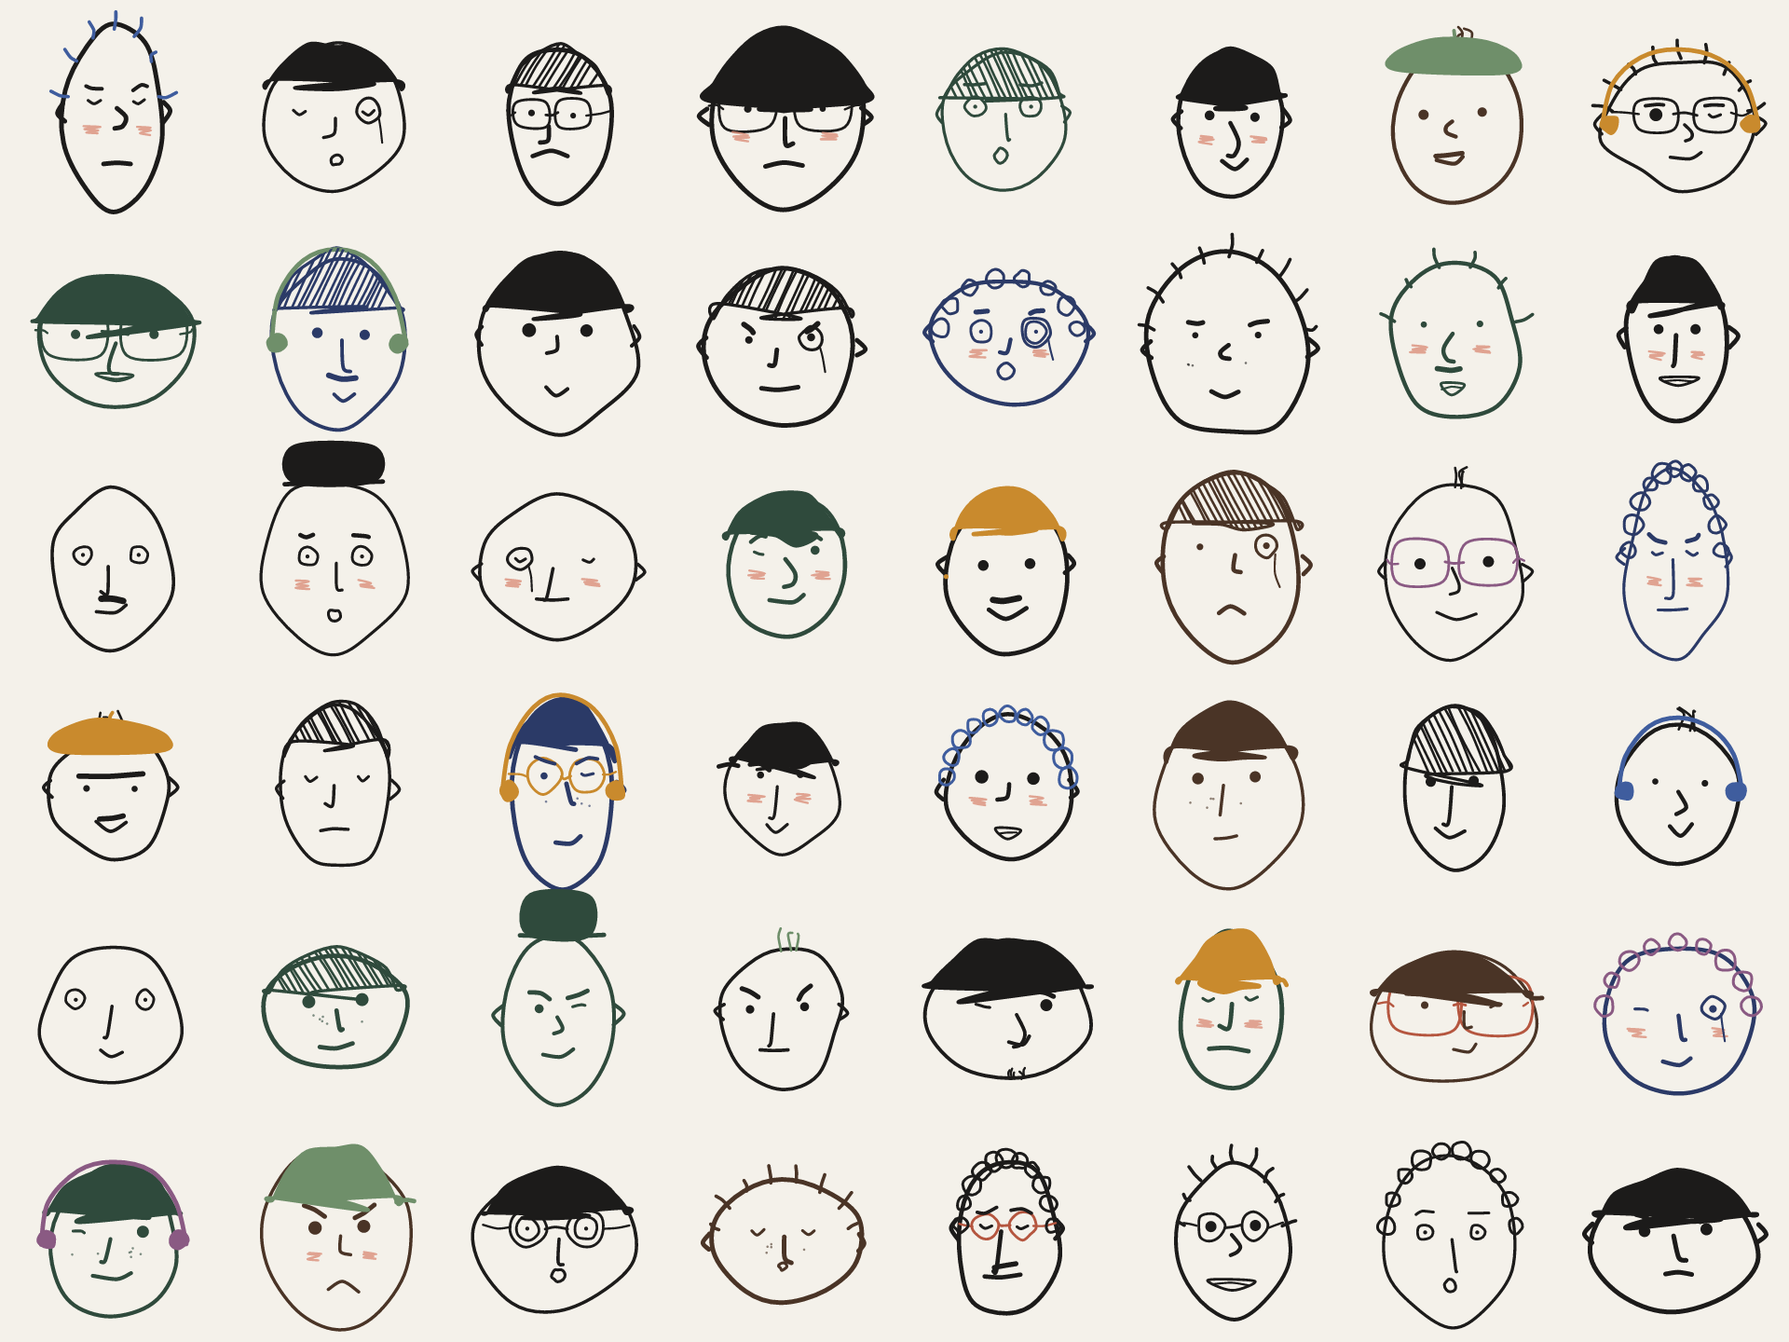
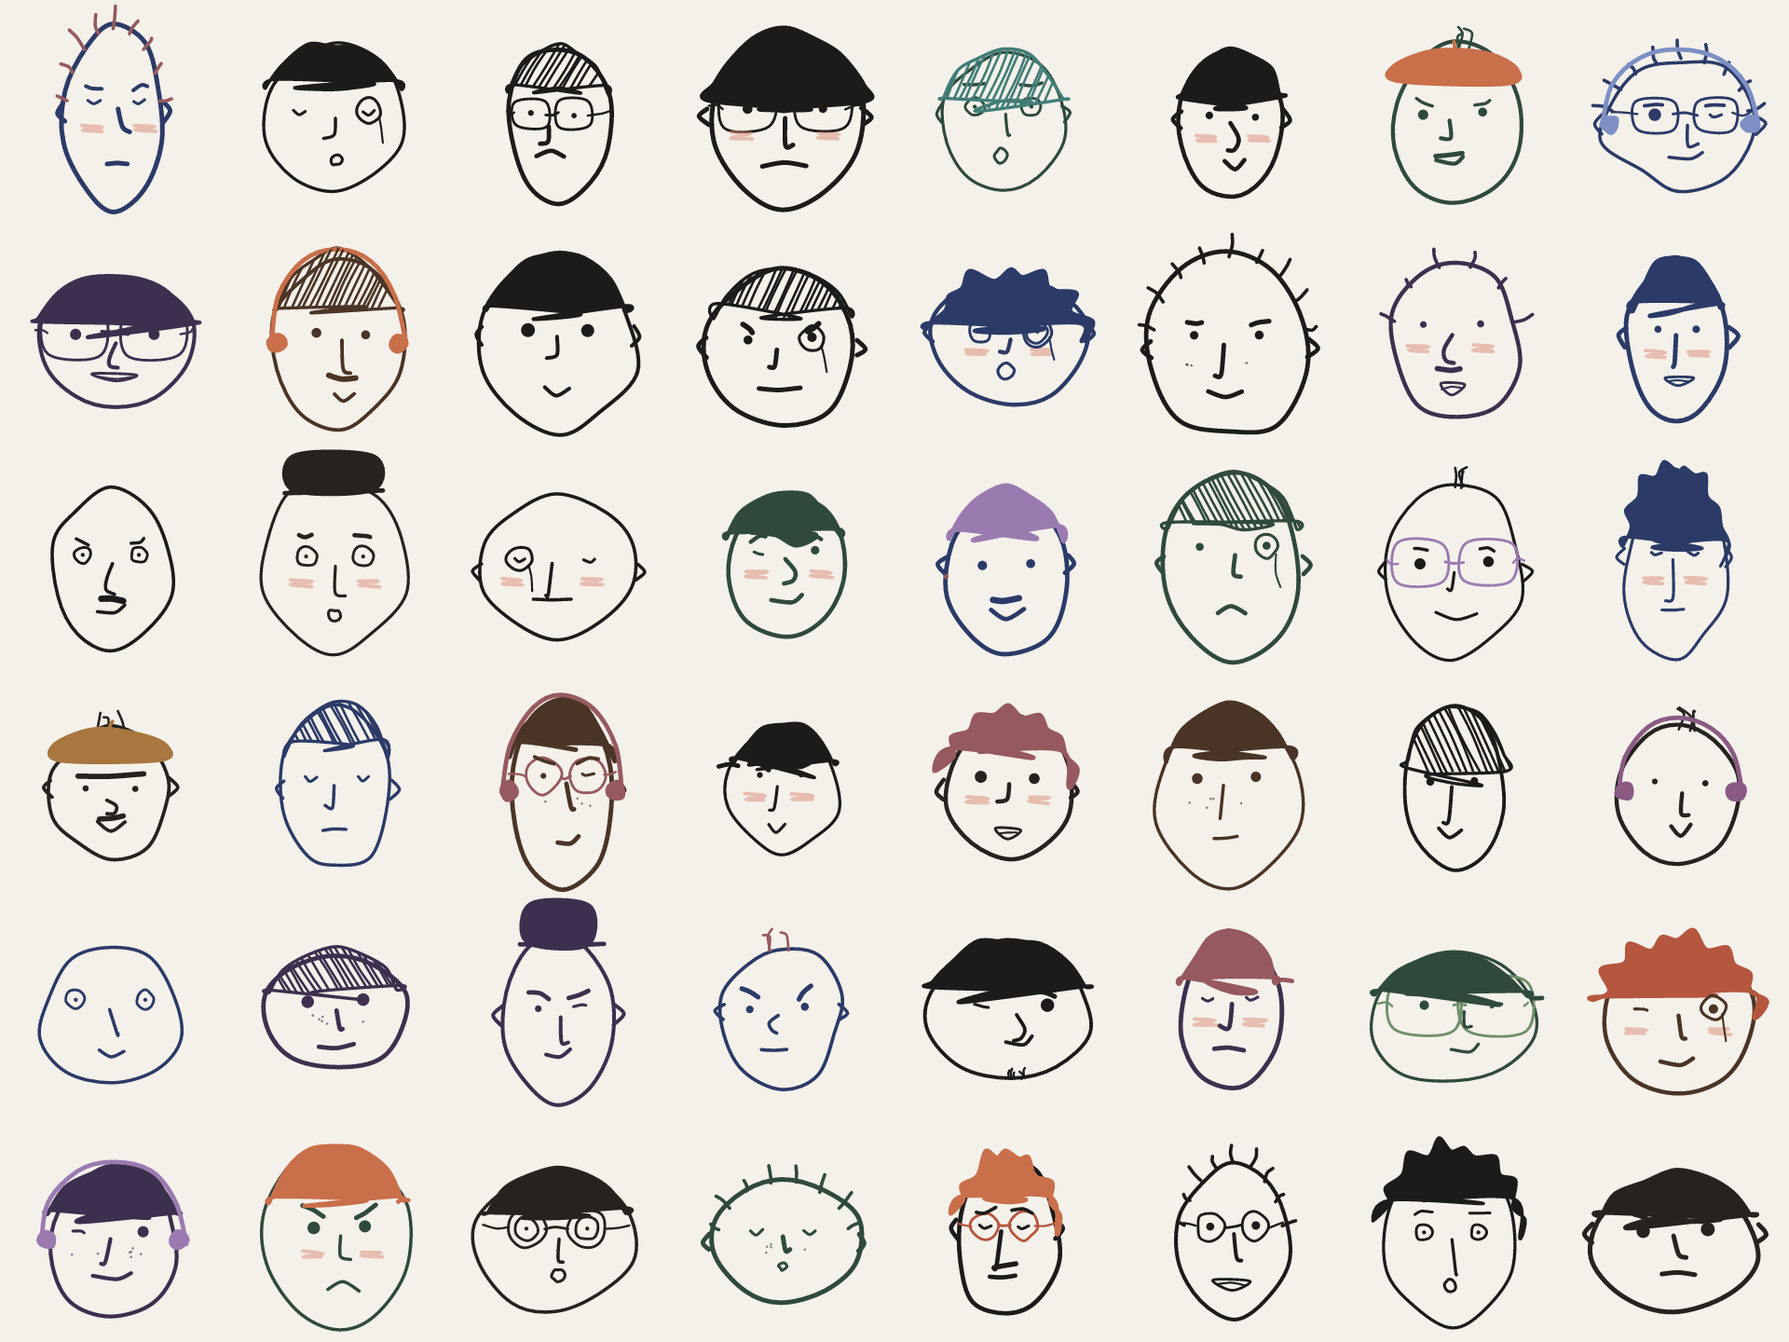
face quality: curls as filled clouds, proportional features, 12-accent palette, anchored hats, softer blush, lid-following lashes

diff --git a/src/index.ts b/src/index.ts
@@ -151,8 +151,8 @@ function looksFem(seed: string, r: Rng): boolean {
   return score > 0;
 }
 
-const INKS = ["#1c1b1a", "#1c1b1a", "#1c1b1a", "#1c1b1a", "#2b3a67", "#4a3426", "#2f4a3c"];
-const ACCENTS = ["#b5563f", "#3f5d9e", "#6f8f6a", "#c98a2d", "#8a5a83"];
+const INKS = ["#1c1b1a", "#1c1b1a", "#1c1b1a", "#26221f", "#2b3a67", "#4a3426", "#2f4a3c", "#3d2f4e"];
+const ACCENTS = ["#b5563f", "#3f5d9e", "#6f8f6a", "#c98a2d", "#8a5a83", "#427d78", "#c96f4a", "#7d8fc4", "#a8763e", "#96595f", "#5e7d52", "#9a7bb0"];
 const BLUSH = "#d98973";
 
 // ---------- face ----------
@@ -229,6 +229,7 @@ function build(seed: string, options: FaceOptions = {}): FaceParts {
     ? pick(rha, ["long", "long", "long", "bob", "bob", "bun", "pony", "curls"])
     : pick(rha, ["solid", "solid", "hatch", "spiky", "curls", "cap", "bald", "wisps"]);
   const coversEars = hairKind === "long" || hairKind === "bob";
+  const sparseHair = hairKind === "bald" || hairKind === "wisps" || hairKind === "spiky";
 
   // --- ears ---
   const re2 = stream(seed, "ears");
@@ -246,7 +247,7 @@ function build(seed: string, options: FaceOptions = {}): FaceParts {
   // --- eyes ---
   const re = stream(seed, "eyes");
   const ey = cy - hh * rand(re, 0.08, 0.22);
-  const gap = hw * rand(re, 0.36, 0.5);
+  const gap = hw * rand(re, 0.38, 0.5);
   const lx = xf - gap * (1 + turn * 0.25);
   const rx2 = xf + gap * (1 - turn * 0.25);
   const hasGlasses = chance(stream(seed, "glasses"), 0.16);
@@ -256,7 +257,7 @@ function build(seed: string, options: FaceOptions = {}): FaceParts {
     m === "surprised" ? "ring" :
     m === "wink" ? "wink" :
     hasGlasses ? "dot" : seedEye;
-  const rEye = rand(re, 1.4, 3.0) * (m === "surprised" ? 1.25 : 1);
+  const rEye = rand(re, 1.5, 2.6) * (hw / 28) * (m === "surprised" ? 1.25 : 1);
   const drawEye = (x: number, winkThis: boolean) => {
     if (kind === "wink" && winkThis) {
       out.push({ d: line(re, [x - 2.5, ey], [x + 2.5, ey + rand(re, -1, 1)]), width: 1.3 });
@@ -273,11 +274,12 @@ function build(seed: string, options: FaceOptions = {}): FaceParts {
   drawEye(lx, winkSide);
   drawEye(rx2, !winkSide);
   if (fem) {
+    const closed = kind === "sleepy";
     for (const [x, sgn] of [[lx, -1], [rx2, 1]] as [number, number][]) {
-      const bx = x + sgn * (rEye + 1.6);
-      for (let i = 0; i < 2; i++) {
-        out.push({ d: line(re, [bx + sgn * i * 1.4, ey - 0.5 + i * 1.1], [bx + sgn * (2.2 + i * 1.6), ey - 2.2 + i * 0.9], 0.3), width: 1 });
-      }
+      const bx = x + sgn * (rEye + (closed ? 0.9 : 1.6));
+      const by2 = closed ? ey + 1.2 : ey - 0.5;
+      out.push({ d: line(re, [bx, by2], [bx + sgn * 2.4, by2 + (closed ? 1.6 : -1.8)], 0.25), width: 1 });
+      out.push({ d: line(re, [bx + sgn * 0.4, by2 + (closed ? -0.6 : 1.4)], [bx + sgn * 2.8, by2 + (closed ? 0.4 : 0)], 0.25), width: 1 });
     }
   }
 
@@ -302,7 +304,7 @@ function build(seed: string, options: FaceOptions = {}): FaceParts {
 
   // --- brows ---
   const rb = stream(seed, "brows");
-  const browBase = chance(rb, 0.45);
+  const browBase = chance(rb, sparseHair ? 0.62 : 0.45);
   const showBrows = m === "grumpy" || m === "sad" || m === "surprised" ? true : browBase;
   if (showBrows) {
     const lift = m === "surprised" ? 3.5 : 0;
@@ -323,9 +325,9 @@ function build(seed: string, options: FaceOptions = {}): FaceParts {
 
   // --- nose ---
   const rn = stream(seed, "nose");
-  if (chance(rn, 0.92)) {
+  if (sparseHair || chance(rn, 0.92)) {
     const ny = ey + rand(rn, 3, 5);
-    const nl = rand(rn, 5, 14);
+    const nl = rand(rn, 6, 12) * (hh / 33);
     const dir = turn !== 0 ? Math.sign(turn) : (chance(rn, 0.5) ? 1 : -1);
     const nk = pick(rn, ["l", "l", "curve", "long"]);
     if (nk === "l") {
@@ -345,8 +347,8 @@ function build(seed: string, options: FaceOptions = {}): FaceParts {
       if (turn * s > 0.5) continue;
       const bx = xf + s * gap * 1.15;
       const pts: Pt[] = [];
-      for (let i = 0; i < 3; i++) pts.push([bx - 3 + rand(rc, -1, 1), chY + i * 1.4], [bx + 3 + rand(rc, -1, 1), chY + i * 1.4 + 0.7]);
-      out.push({ d: inkPath(rc, pts, { wobble: 0.5 }), width: 1, stroke: colorOn ? BLUSH : ink, opacity: colorOn ? 0.75 : 0.35 });
+      for (let i = 0; i < 2; i++) pts.push([bx - 4.5 + rand(rc, -0.5, 0.5), chY + i * 2], [bx + 4.5 + rand(rc, -0.5, 0.5), chY + i * 2 + 0.5]);
+      out.push({ d: inkPath(rc, pts, { wobble: 0.4 }), width: 1.6, stroke: colorOn ? BLUSH : ink, opacity: colorOn ? 0.5 : 0.25 });
     }
   } else if (chance(rc, 0.16)) { // freckles
     for (let i = 0; i < Math.floor(rand(rc, 4, 8)); i++) {
@@ -358,7 +360,7 @@ function build(seed: string, options: FaceOptions = {}): FaceParts {
   // --- mouth ---
   const rm = stream(seed, "mouth");
   const my = cy + hh * rand(rm, 0.42, 0.58);
-  const mw = rand(rm, 4.5, 9);
+  const mw = rand(rm, 4.5, 8.5) * (hw / 28);
   const seedMouth = pick(rm, ["line", "line", "smile", "frown", "o", "smirk"]);
   const mk =
     m === "happy" ? "smile" :
@@ -382,7 +384,7 @@ function build(seed: string, options: FaceOptions = {}): FaceParts {
       mk === "smile" ? rand(rm, 2, 4) * (m === "happy" ? 1.3 : 1) :
       mk === "frown" ? rand(rm, -3.5, -1.5) :
       rand(rm, -0.7, 0.7);
-    out.push({ tag: "mouth", d: inkPath(rm, [[mx - mw, my], [mx, my + bend], [mx + mw, my + rand(rm, -1, 1)]], { wobble: 0.6 }) });
+    out.push({ tag: "mouth", d: inkPath(rm, [[mx - mw, my], [mx, my + bend], [mx + mw, my + rand(rm, -0.6, 0.6)]], { wobble: 0.5 }) });
   }
 
   // --- facial hair ---
@@ -403,7 +405,7 @@ function build(seed: string, options: FaceOptions = {}): FaceParts {
   // --- hair ---
   let hatchClip = "";
   const hatchLines: string[] = [];
-  const hairInk = colorOn && chance(rha, hairKind === "cap" ? 0.55 : 0.25) ? accent : ink;
+  const hairInk = colorOn && chance(rha, hairKind === "cap" ? 0.6 : 0.3) ? pick(rha, ACCENTS) : ink;
   const hairline = cy - hh * rand(rha, 0.22, 0.58);
   if (hairKind === "solid" || hairKind === "cap" || hairKind === "hatch") {
     const pts: Pt[] = [];
@@ -516,14 +518,24 @@ function build(seed: string, options: FaceOptions = {}): FaceParts {
       out.push({ d: line(rha, [bx, by], [ex2, ey2], 0.4), width: 1.5, stroke: hairInk });
     }
   } else if (hairKind === "curls") {
-    const nC = Math.floor(rand(rha, 8, 12));
-    for (let i = 0; i < nC; i++) {
-      const a = Math.PI + ((i + 0.5) / nC) * Math.PI;
-      const rr = rand(rha, 3, 4.5);
-      const bx = cx + Math.cos(a) * (hw - rr * 0.3) * 1.02;
-      const by = cy - Math.abs(Math.sin(a)) * (hh - rr * 0.3) * 1.05;
-      out.push({ d: inkPath(rha, circlePts(bx, by, rr), { close: true, wobble: 0.45 }), width: 1.25, stroke: hairInk });
+    // scalloped cloud hugging the skull, filled — reads as curly hair
+    const yl = hairline;
+    const cloud: Pt[] = [[cx - edgeX(yl) - 1.5, yl + 1]];
+    const bumps = Math.floor(rand(rha, 6, 8));
+    for (let i = 0; i <= bumps; i++) {
+      const a = Math.PI + ((i + 0.5) / (bumps + 1)) * Math.PI;
+      const rr = 1 + rand(rha, 0.1, 0.24); // bump amplitude
+      cloud.push([cx + Math.cos(a) * hw * rr, cy - Math.abs(Math.sin(a)) * (hh + rand(rha, 3, 7))]);
+      const a2 = Math.PI + ((i + 1) / (bumps + 1)) * Math.PI;
+      cloud.push([cx + Math.cos(a2) * hw * 1.0, cy - Math.abs(Math.sin(a2)) * (hh + 0.5)]);
     }
+    cloud.push([cx + edgeX(yl) + 1.5, yl + 1]);
+    const back3: Pt[] = [];
+    for (let i = 3; i >= 1; i--) {
+      const t = i / 4;
+      back3.push([cx - edgeX(yl) + t * 2 * edgeX(yl), yl + 3.5 + rand(rha, -2, 2)]);
+    }
+    out.push({ d: inkPath(rha, [...cloud, ...back3.reverse()], { close: true, wobble: 1.3 }), fill: hairInk, stroke: hairInk });
   } else if (hairKind === "wisps") {
     for (let i = 0; i < 3; i++) {
       const bx = cx + rand(rha, -8, 8);
@@ -535,7 +547,7 @@ function build(seed: string, options: FaceOptions = {}): FaceParts {
   // --- extras: headphones, top hat, earring ---
   const rx3 = stream(seed, "extras");
   const extra = fem
-    ? pick(rx3, ["none", "none", "none", "earring", "earring", "headphones", "flower", "beret"])
+    ? pick(rx3, ["none", "none", "none", "none", "earring", "flower", "beret", "headphones"])
     : pick(rx3, ["none", "none", "none", "none", "none", "headphones", "tophat", "earring", "monocle", "beret"]);
   if (extra === "headphones" && hairKind !== "cap") {
     const hInk = colorOn ? accent : ink;
@@ -551,7 +563,7 @@ function build(seed: string, options: FaceOptions = {}): FaceParts {
     }
   } else if (extra === "tophat" && (hairKind === "bald" || hairKind === "wisps" || hairKind === "spiky")) {
     const hInk = colorOn && chance(rx3, 0.4) ? accent : ink;
-    const topY = cy - hh - 1;
+    const topY = cy - hh + 3;
     const bw2 = hw * rand(rx3, 0.55, 0.68), ht = rand(rx3, 14, 20);
     out.push({ d: inkPath(rx3, [[cx - bw2, topY + 2], [cx - bw2 + rand(rx3, -1.5, 1.5), topY - ht], [cx + bw2 + rand(rx3, -1.5, 1.5), topY - ht], [cx + bw2, topY + 2]], { close: true, wobble: 0.9 }), fill: hInk, stroke: hInk });
     out.push({ d: line(rx3, [cx - bw2 - rand(rx3, 4, 7), topY + 3], [cx + bw2 + rand(rx3, 4, 7), topY + 2.5], 0.8), width: 2, stroke: hInk });
@@ -570,7 +582,7 @@ function build(seed: string, options: FaceOptions = {}): FaceParts {
     out.push({ d: line(rx3, [mx2 + rEye + 2, ey + 3], [mx2 + rEye + 4, ey + hh * 0.45], 0.6), width: 0.9 });
   } else if (extra === "beret" && (hairKind === "bald" || hairKind === "wisps" || hairKind === "spiky" || fem)) {
     const bInk = colorOn ? accent : ink;
-    const by2 = cy - hh * 0.82;
+    const by2 = cy - hh * 0.68;
     const bpts: Pt[] = [
       [cx - hw * 0.85, by2 + 4], [cx - hw * 0.95, by2 - 3], [cx - hw * 0.3, by2 - 9],
       [cx + hw * 0.5, by2 - 8], [cx + hw * 0.95, by2 - 1], [cx + hw * 0.8, by2 + 5],

diff --git a/docs/dist/index.js b/docs/dist/index.js
@@ -131,8 +131,8 @@ function looksFem(seed, r) {
     }
     return score > 0;
 }
-const INKS = ["#1c1b1a", "#1c1b1a", "#1c1b1a", "#1c1b1a", "#2b3a67", "#4a3426", "#2f4a3c"];
-const ACCENTS = ["#b5563f", "#3f5d9e", "#6f8f6a", "#c98a2d", "#8a5a83"];
+const INKS = ["#1c1b1a", "#1c1b1a", "#1c1b1a", "#26221f", "#2b3a67", "#4a3426", "#2f4a3c", "#3d2f4e"];
+const ACCENTS = ["#b5563f", "#3f5d9e", "#6f8f6a", "#c98a2d", "#8a5a83", "#427d78", "#c96f4a", "#7d8fc4", "#a8763e", "#96595f", "#5e7d52", "#9a7bb0"];
 const BLUSH = "#d98973";
 export function face(seed, options = {}) {
     return build(seed, options).svg;
@@ -196,6 +196,7 @@ function build(seed, options = {}) {
         ? pick(rha, ["long", "long", "long", "bob", "bob", "bun", "pony", "curls"])
         : pick(rha, ["solid", "solid", "hatch", "spiky", "curls", "cap", "bald", "wisps"]);
     const coversEars = hairKind === "long" || hairKind === "bob";
+    const sparseHair = hairKind === "bald" || hairKind === "wisps" || hairKind === "spiky";
     // --- ears ---
     const re2 = stream(seed, "ears");
     const hasEars = !coversEars && chance(re2, fem ? 0.4 : 0.55);
@@ -212,7 +213,7 @@ function build(seed, options = {}) {
     // --- eyes ---
     const re = stream(seed, "eyes");
     const ey = cy - hh * rand(re, 0.08, 0.22);
-    const gap = hw * rand(re, 0.36, 0.5);
+    const gap = hw * rand(re, 0.38, 0.5);
     const lx = xf - gap * (1 + turn * 0.25);
     const rx2 = xf + gap * (1 - turn * 0.25);
     const hasGlasses = chance(stream(seed, "glasses"), 0.16);
@@ -221,7 +222,7 @@ function build(seed, options = {}) {
         m === "surprised" ? "ring" :
             m === "wink" ? "wink" :
                 hasGlasses ? "dot" : seedEye;
-    const rEye = rand(re, 1.4, 3.0) * (m === "surprised" ? 1.25 : 1);
+    const rEye = rand(re, 1.5, 2.6) * (hw / 28) * (m === "surprised" ? 1.25 : 1);
     const drawEye = (x, winkThis) => {
         if (kind === "wink" && winkThis) {
             out.push({ d: line(re, [x - 2.5, ey], [x + 2.5, ey + rand(re, -1, 1)]), width: 1.3 });
@@ -241,11 +242,12 @@ function build(seed, options = {}) {
     drawEye(lx, winkSide);
     drawEye(rx2, !winkSide);
     if (fem) {
+        const closed = kind === "sleepy";
         for (const [x, sgn] of [[lx, -1], [rx2, 1]]) {
-            const bx = x + sgn * (rEye + 1.6);
-            for (let i = 0; i < 2; i++) {
-                out.push({ d: line(re, [bx + sgn * i * 1.4, ey - 0.5 + i * 1.1], [bx + sgn * (2.2 + i * 1.6), ey - 2.2 + i * 0.9], 0.3), width: 1 });
-            }
+            const bx = x + sgn * (rEye + (closed ? 0.9 : 1.6));
+            const by2 = closed ? ey + 1.2 : ey - 0.5;
+            out.push({ d: line(re, [bx, by2], [bx + sgn * 2.4, by2 + (closed ? 1.6 : -1.8)], 0.25), width: 1 });
+            out.push({ d: line(re, [bx + sgn * 0.4, by2 + (closed ? -0.6 : 1.4)], [bx + sgn * 2.8, by2 + (closed ? 0.4 : 0)], 0.25), width: 1 });
         }
     }
     // glasses
@@ -268,7 +270,7 @@ function build(seed, options = {}) {
     }
     // --- brows ---
     const rb = stream(seed, "brows");
-    const browBase = chance(rb, 0.45);
+    const browBase = chance(rb, sparseHair ? 0.62 : 0.45);
     const showBrows = m === "grumpy" || m === "sad" || m === "surprised" ? true : browBase;
     if (showBrows) {
         const lift = m === "surprised" ? 3.5 : 0;
@@ -289,9 +291,9 @@ function build(seed, options = {}) {
     }
     // --- nose ---
     const rn = stream(seed, "nose");
-    if (chance(rn, 0.92)) {
+    if (sparseHair || chance(rn, 0.92)) {
         const ny = ey + rand(rn, 3, 5);
-        const nl = rand(rn, 5, 14);
+        const nl = rand(rn, 6, 12) * (hh / 33);
         const dir = turn !== 0 ? Math.sign(turn) : (chance(rn, 0.5) ? 1 : -1);
         const nk = pick(rn, ["l", "l", "curve", "long"]);
         if (nk === "l") {
@@ -313,9 +315,9 @@ function build(seed, options = {}) {
                 continue;
             const bx = xf + s * gap * 1.15;
             const pts = [];
-            for (let i = 0; i < 3; i++)
-                pts.push([bx - 3 + rand(rc, -1, 1), chY + i * 1.4], [bx + 3 + rand(rc, -1, 1), chY + i * 1.4 + 0.7]);
-            out.push({ d: inkPath(rc, pts, { wobble: 0.5 }), width: 1, stroke: colorOn ? BLUSH : ink, opacity: colorOn ? 0.75 : 0.35 });
+            for (let i = 0; i < 2; i++)
+                pts.push([bx - 4.5 + rand(rc, -0.5, 0.5), chY + i * 2], [bx + 4.5 + rand(rc, -0.5, 0.5), chY + i * 2 + 0.5]);
+            out.push({ d: inkPath(rc, pts, { wobble: 0.4 }), width: 1.6, stroke: colorOn ? BLUSH : ink, opacity: colorOn ? 0.5 : 0.25 });
         }
     }
     else if (chance(rc, 0.16)) { // freckles
@@ -327,7 +329,7 @@ function build(seed, options = {}) {
     // --- mouth ---
     const rm = stream(seed, "mouth");
     const my = cy + hh * rand(rm, 0.42, 0.58);
-    const mw = rand(rm, 4.5, 9);
+    const mw = rand(rm, 4.5, 8.5) * (hw / 28);
     const seedMouth = pick(rm, ["line", "line", "smile", "frown", "o", "smirk"]);
     const mk = m === "happy" ? "smile" :
         m === "sad" || m === "grumpy" ? (chance(rm, 0.4) ? "line" : "frown") :
@@ -352,7 +354,7 @@ function build(seed, options = {}) {
         const bend = mk === "smile" ? rand(rm, 2, 4) * (m === "happy" ? 1.3 : 1) :
             mk === "frown" ? rand(rm, -3.5, -1.5) :
                 rand(rm, -0.7, 0.7);
-        out.push({ tag: "mouth", d: inkPath(rm, [[mx - mw, my], [mx, my + bend], [mx + mw, my + rand(rm, -1, 1)]], { wobble: 0.6 }) });
+        out.push({ tag: "mouth", d: inkPath(rm, [[mx - mw, my], [mx, my + bend], [mx + mw, my + rand(rm, -0.6, 0.6)]], { wobble: 0.5 }) });
     }
     // --- facial hair ---
     const rf = stream(seed, "fuzz");
@@ -372,7 +374,7 @@ function build(seed, options = {}) {
     // --- hair ---
     let hatchClip = "";
     const hatchLines = [];
-    const hairInk = colorOn && chance(rha, hairKind === "cap" ? 0.55 : 0.25) ? accent : ink;
+    const hairInk = colorOn && chance(rha, hairKind === "cap" ? 0.6 : 0.3) ? pick(rha, ACCENTS) : ink;
     const hairline = cy - hh * rand(rha, 0.22, 0.58);
     if (hairKind === "solid" || hairKind === "cap" || hairKind === "hatch") {
         const pts = [];
@@ -491,14 +493,24 @@ function build(seed, options = {}) {
         }
     }
     else if (hairKind === "curls") {
-        const nC = Math.floor(rand(rha, 8, 12));
-        for (let i = 0; i < nC; i++) {
-            const a = Math.PI + ((i + 0.5) / nC) * Math.PI;
-            const rr = rand(rha, 3, 4.5);
-            const bx = cx + Math.cos(a) * (hw - rr * 0.3) * 1.02;
-            const by = cy - Math.abs(Math.sin(a)) * (hh - rr * 0.3) * 1.05;
-            out.push({ d: inkPath(rha, circlePts(bx, by, rr), { close: true, wobble: 0.45 }), width: 1.25, stroke: hairInk });
+        // scalloped cloud hugging the skull, filled — reads as curly hair
+        const yl = hairline;
+        const cloud = [[cx - edgeX(yl) - 1.5, yl + 1]];
+        const bumps = Math.floor(rand(rha, 6, 8));
+        for (let i = 0; i <= bumps; i++) {
+            const a = Math.PI + ((i + 0.5) / (bumps + 1)) * Math.PI;
+            const rr = 1 + rand(rha, 0.1, 0.24); // bump amplitude
+            cloud.push([cx + Math.cos(a) * hw * rr, cy - Math.abs(Math.sin(a)) * (hh + rand(rha, 3, 7))]);
+            const a2 = Math.PI + ((i + 1) / (bumps + 1)) * Math.PI;
+            cloud.push([cx + Math.cos(a2) * hw * 1.0, cy - Math.abs(Math.sin(a2)) * (hh + 0.5)]);
         }
+        cloud.push([cx + edgeX(yl) + 1.5, yl + 1]);
+        const back3 = [];
+        for (let i = 3; i >= 1; i--) {
+            const t = i / 4;
+            back3.push([cx - edgeX(yl) + t * 2 * edgeX(yl), yl + 3.5 + rand(rha, -2, 2)]);
+        }
+        out.push({ d: inkPath(rha, [...cloud, ...back3.reverse()], { close: true, wobble: 1.3 }), fill: hairInk, stroke: hairInk });
     }
     else if (hairKind === "wisps") {
         for (let i = 0; i < 3; i++) {
@@ -510,7 +522,7 @@ function build(seed, options = {}) {
     // --- extras: headphones, top hat, earring ---
     const rx3 = stream(seed, "extras");
     const extra = fem
-        ? pick(rx3, ["none", "none", "none", "earring", "earring", "headphones", "flower", "beret"])
+        ? pick(rx3, ["none", "none", "none", "none", "earring", "flower", "beret", "headphones"])
         : pick(rx3, ["none", "none", "none", "none", "none", "headphones", "tophat", "earring", "monocle", "beret"]);
     if (extra === "headphones" && hairKind !== "cap") {
         const hInk = colorOn ? accent : ink;
@@ -527,7 +539,7 @@ function build(seed, options = {}) {
     }
     else if (extra === "tophat" && (hairKind === "bald" || hairKind === "wisps" || hairKind === "spiky")) {
         const hInk = colorOn && chance(rx3, 0.4) ? accent : ink;
-        const topY = cy - hh - 1;
+        const topY = cy - hh + 3;
         const bw2 = hw * rand(rx3, 0.55, 0.68), ht = rand(rx3, 14, 20);
         out.push({ d: inkPath(rx3, [[cx - bw2, topY + 2], [cx - bw2 + rand(rx3, -1.5, 1.5), topY - ht], [cx + bw2 + rand(rx3, -1.5, 1.5), topY - ht], [cx + bw2, topY + 2]], { close: true, wobble: 0.9 }), fill: hInk, stroke: hInk });
         out.push({ d: line(rx3, [cx - bw2 - rand(rx3, 4, 7), topY + 3], [cx + bw2 + rand(rx3, 4, 7), topY + 2.5], 0.8), width: 2, stroke: hInk });
@@ -549,7 +561,7 @@ function build(seed, options = {}) {
     }
     else if (extra === "beret" && (hairKind === "bald" || hairKind === "wisps" || hairKind === "spiky" || fem)) {
         const bInk = colorOn ? accent : ink;
-        const by2 = cy - hh * 0.82;
+        const by2 = cy - hh * 0.68;
         const bpts = [
             [cx - hw * 0.85, by2 + 4], [cx - hw * 0.95, by2 - 3], [cx - hw * 0.3, by2 - 9],
             [cx + hw * 0.5, by2 - 8], [cx + hw * 0.95, by2 - 1], [cx + hw * 0.8, by2 + 5],
